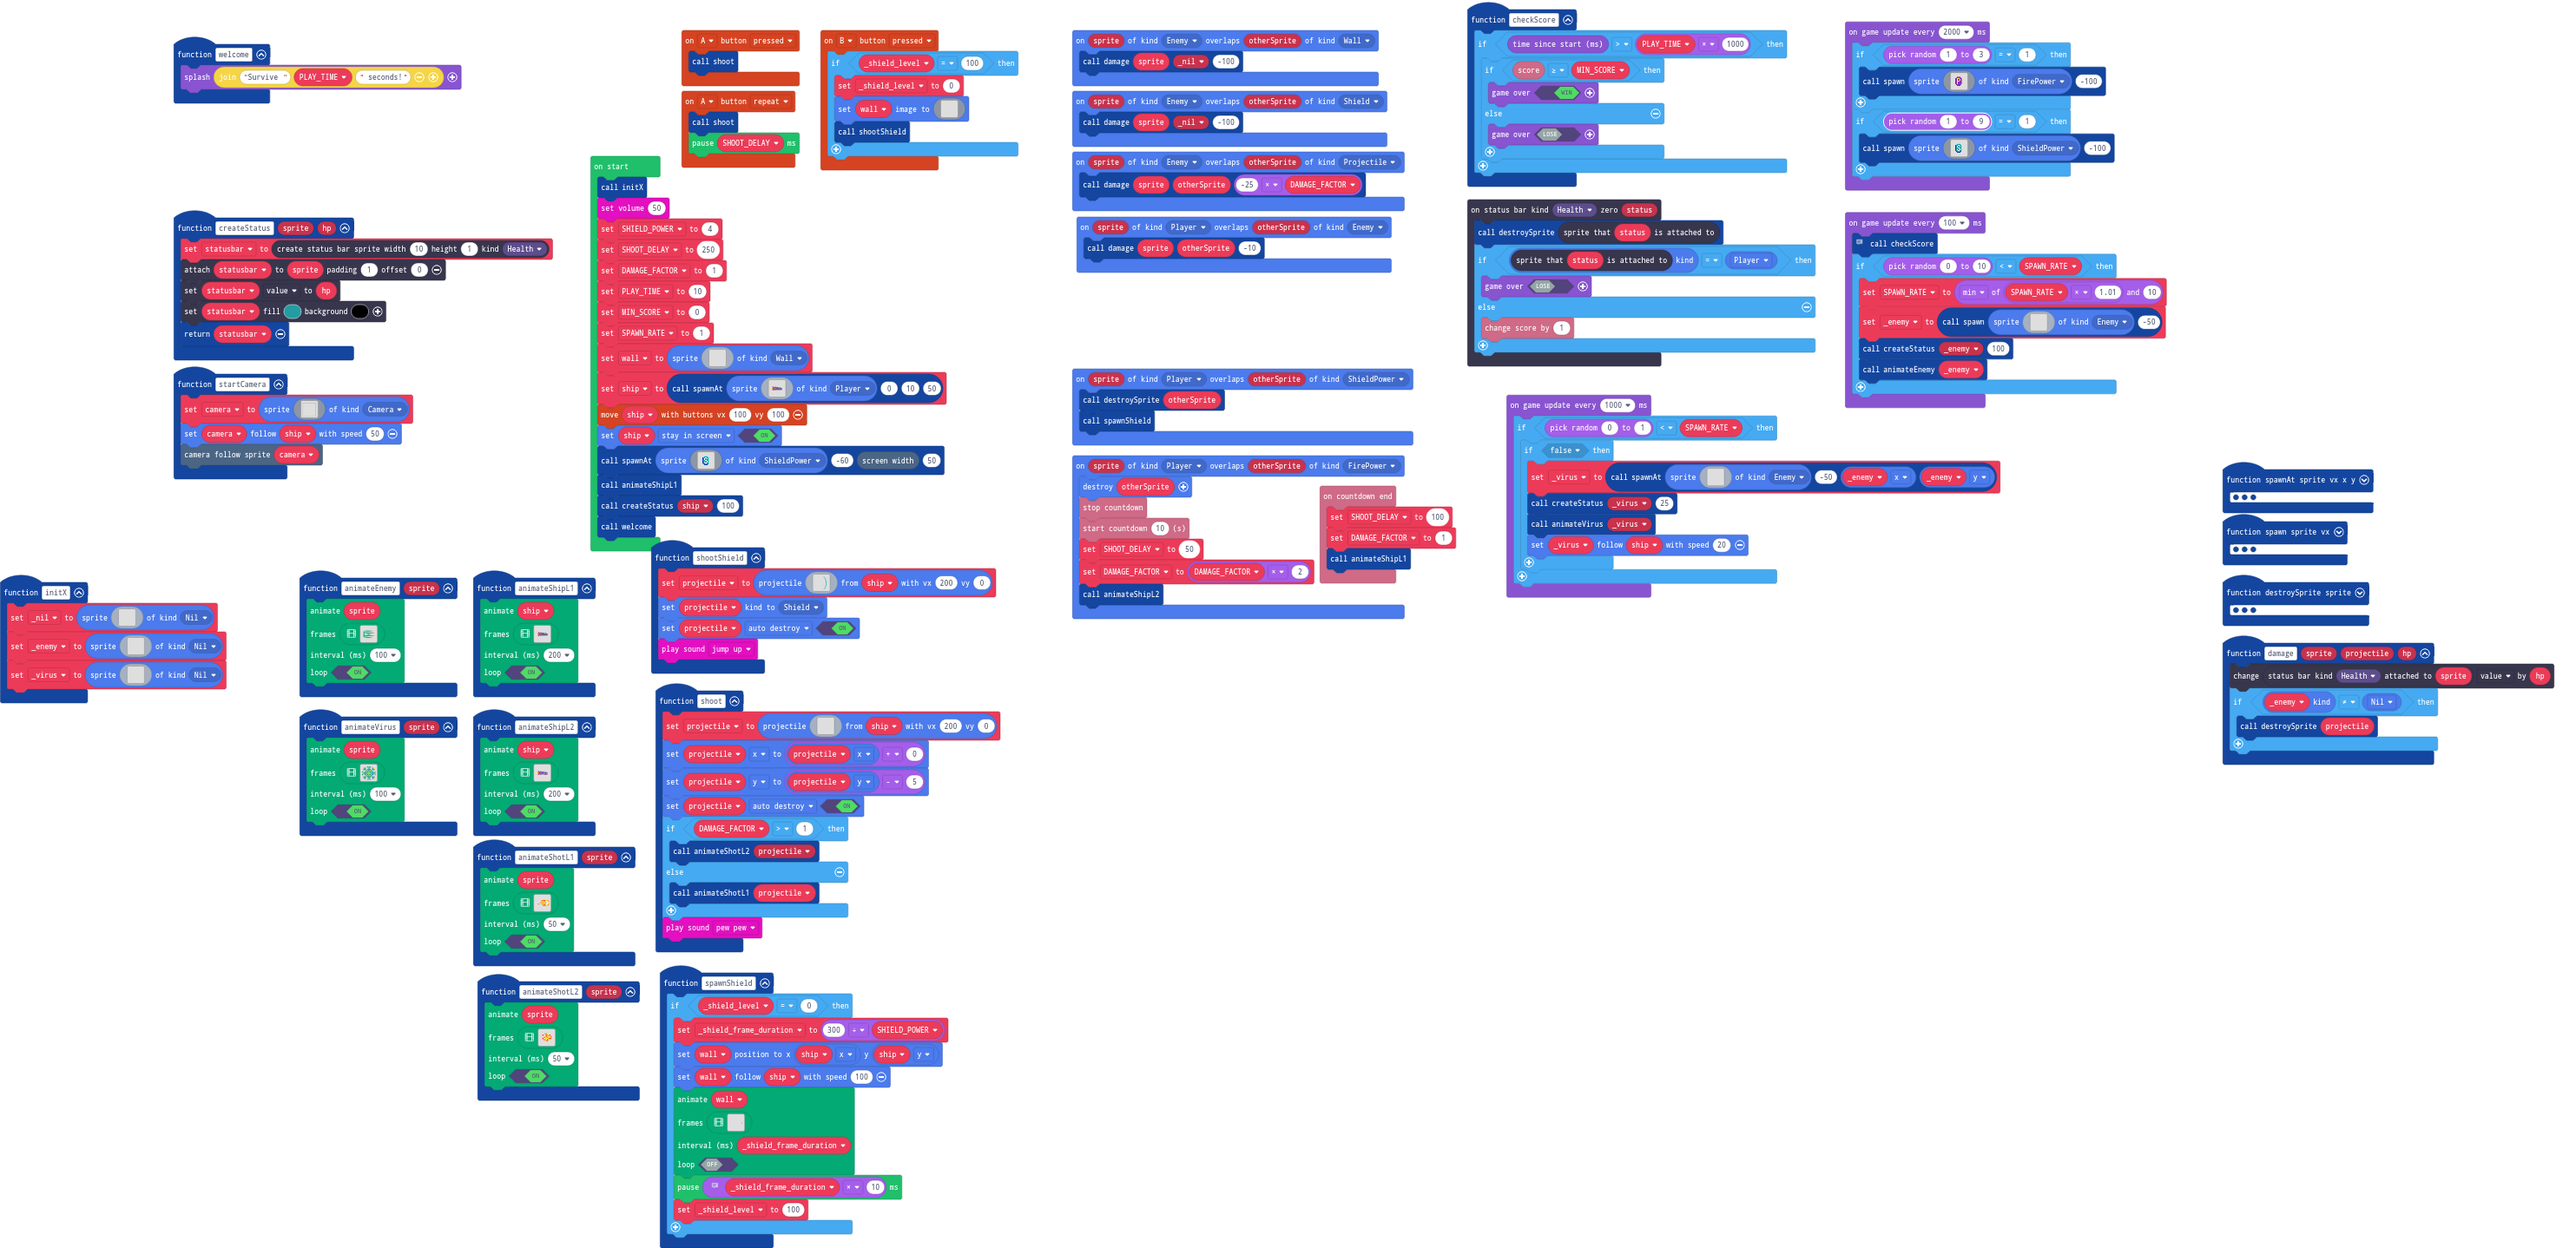
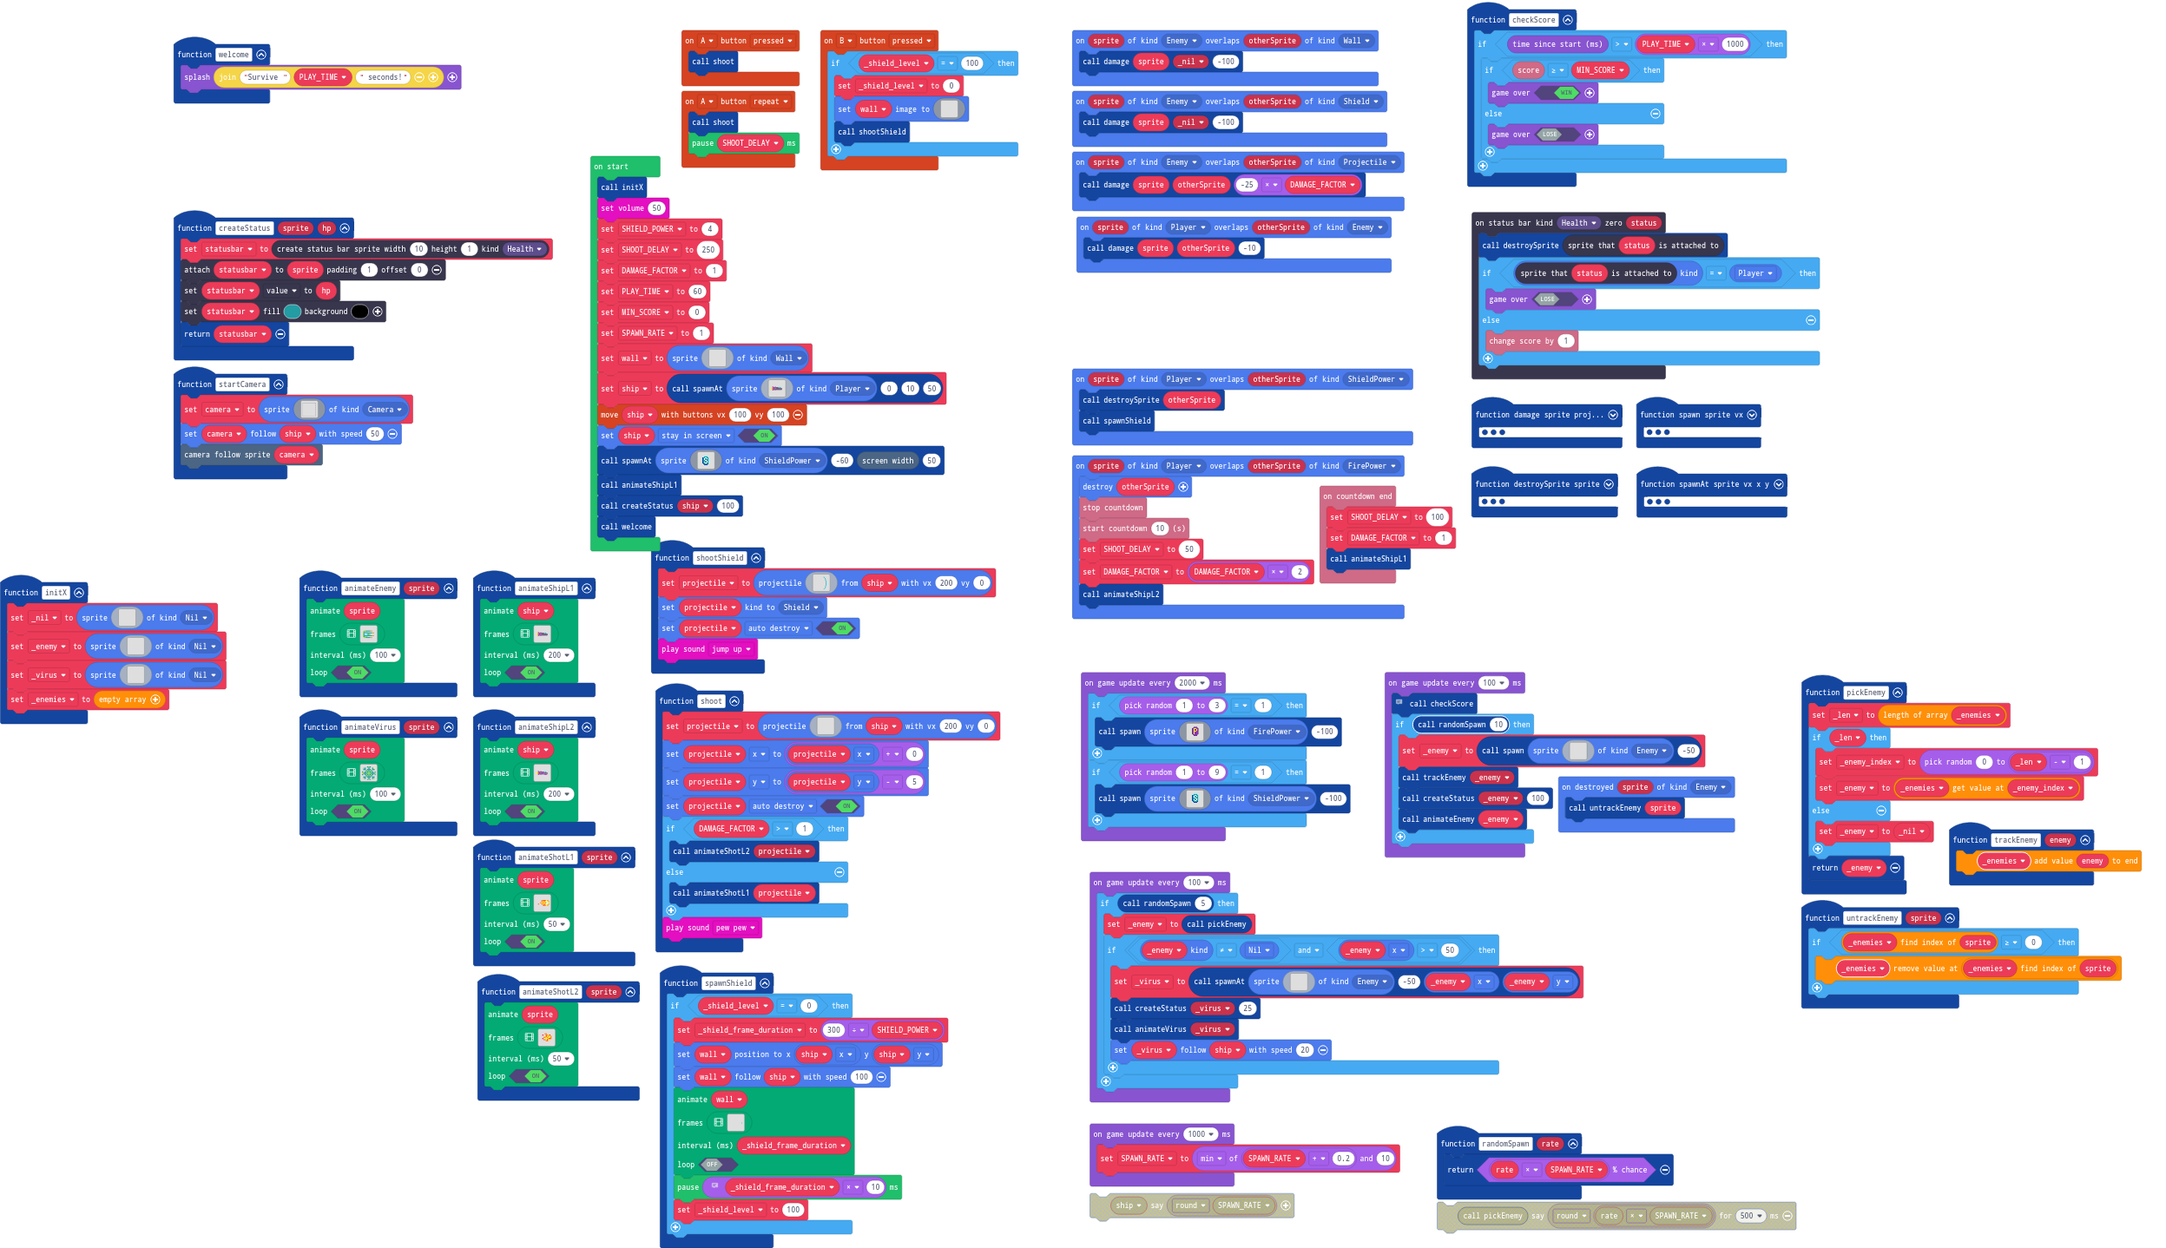
mass enemies

diff --git a/main.ts b/main.ts
@@ -232,6 +232,9 @@ controller.B.onEvent(ControllerButtonEvent.Pressed, function () {
         shootShield()
     }
 })
+function trackEnemy (enemy: Sprite) {
+    _enemies.push(enemy)
+}
 function initX () {
     _nil = sprites.create(img`
         . 
@@ -242,6 +245,7 @@ function initX () {
     _virus = sprites.create(img`
         . 
         `, SpriteKind.Nil)
+    _enemies = []
 }
 function shootShield () {
     projectile = sprites.createProjectileFromSprite(img`
@@ -285,6 +289,11 @@ function destroySprite (sprite: Sprite) {
 controller.A.onEvent(ControllerButtonEvent.Pressed, function () {
     shoot()
 })
+function untrackEnemy (sprite: Sprite) {
+    if (_enemies.indexOf(sprite) >= 0) {
+        _enemies.removeAt(_enemies.indexOf(sprite))
+    }
+}
 function animateVirus (sprite: Sprite) {
     animation.runImageAnimation(
     sprite,
@@ -392,6 +401,16 @@ function animateVirus (sprite: Sprite) {
 sprites.onOverlap(SpriteKind.Enemy, SpriteKind.Projectile, function (sprite, otherSprite) {
     damage(sprite, otherSprite, -25 * DAMAGE_FACTOR)
 })
+function pickEnemy () {
+    _len = _enemies.length
+    if (_len) {
+        _enemy_index = randint(0, _len - 1)
+        _enemy = _enemies[_enemy_index]
+    } else {
+        _enemy = _nil
+    }
+    return _enemy
+}
 function animateShipL1 () {
     animation.runImageAnimation(
     ship,
@@ -798,6 +817,12 @@ function spawnAt (sprite: Sprite, vx: number, x: number, y: number) {
     sprite.setFlag(SpriteFlag.AutoDestroy, true)
     return sprite
 }
+sprites.onDestroyed(SpriteKind.Enemy, function (sprite) {
+    untrackEnemy(sprite)
+})
+function randomSpawn (rate: number) {
+    return Math.percentChance(rate * SPAWN_RATE)
+}
 function createStatus (sprite: Sprite, hp: number) {
     statusbar = statusbars.create(10, 1, StatusBarKind.Health)
     statusbar.attachToSprite(sprite, 1, 0)
@@ -923,13 +948,17 @@ sprites.onOverlap(SpriteKind.Player, SpriteKind.Enemy, function (sprite, otherSp
 let statusbar: StatusBarSprite = null
 let camera: Sprite = null
 let _shield_frame_duration = 0
+let _enemy_index = 0
+let _len = 0
 let projectile: Sprite = null
 let _virus: Sprite = null
 let _enemy: Sprite = null
 let _nil: Sprite = null
+let _enemies: Sprite[] = []
 let _shield_level = 0
 let ship: Sprite = null
 let wall: Sprite = null
+let SPAWN_RATE = 0
 let MIN_SCORE = 0
 let PLAY_TIME = 0
 let DAMAGE_FACTOR = 0
@@ -940,9 +969,9 @@ music.setVolume(50)
 SHIELD_POWER = 4
 SHOOT_DELAY = 250
 DAMAGE_FACTOR = 1
-PLAY_TIME = 10
+PLAY_TIME = 60
 MIN_SCORE = 0
-let SPAWN_RATE = 1
+SPAWN_RATE = 1
 wall = sprites.create(img`
     ................................
     ................................
@@ -1049,8 +1078,24 @@ game.onUpdateInterval(2000, function () {
     }
 })
 game.onUpdateInterval(1000, function () {
-    if (randint(0, 1) < SPAWN_RATE) {
-        if (false) {
+    SPAWN_RATE = Math.min(SPAWN_RATE + 0.2, 10)
+})
+game.onUpdateInterval(100, function () {
+    // trigger score check
+    checkScore()
+    if (randomSpawn(10)) {
+        _enemy = spawn(sprites.create(img`
+            . 
+            `, SpriteKind.Enemy), -50)
+        trackEnemy(_enemy)
+        createStatus(_enemy, 100)
+        animateEnemy(_enemy)
+    }
+})
+game.onUpdateInterval(100, function () {
+    if (randomSpawn(5)) {
+        _enemy = pickEnemy()
+        if (_enemy.kind() != SpriteKind.Nil && _enemy.x > 50) {
             _virus = spawnAt(sprites.create(img`
                 . 
                 `, SpriteKind.Enemy), -50, _enemy.x, _enemy.y)
@@ -1058,17 +1103,5 @@ game.onUpdateInterval(1000, function () {
             animateVirus(_virus)
             _virus.follow(ship, 20)
         }
-    }
-})
-game.onUpdateInterval(100, function () {
-    // trigger score check
-    checkScore()
-    if (randint(0, 10) < SPAWN_RATE) {
-        SPAWN_RATE = Math.min(SPAWN_RATE * 1.01, 10)
-        _enemy = spawn(sprites.create(img`
-            . 
-            `, SpriteKind.Enemy), -50)
-        createStatus(_enemy, 100)
-        animateEnemy(_enemy)
     }
 })
